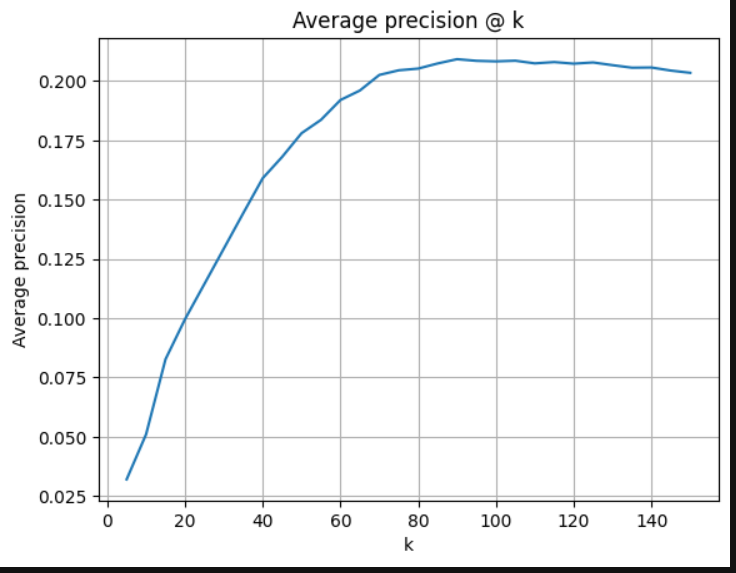
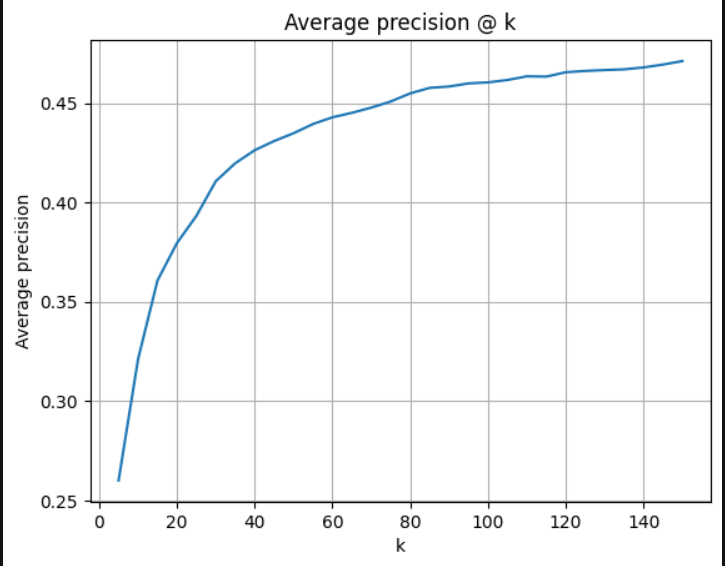
quantised evaluation

Changed region(s): [[0.0, 0.0, 1.0, 1.0]]

diff --git a/README.md b/README.md
@@ -3,11 +3,10 @@
 ## Playpick: A persistent multi user collaborative movie recommendation web app
 
 Persistent Recommendation System, MongoDB, Collaborative Filtering, Streamlit
-Live: https://pick-1-movie.streamlit.app 
+Live: https://pick-1-movie.streamlit.app
 
-## Metrics: Avg Precision@20=0.1                     Avg Precision@100=0.208
+## Metrics: Avg Precision@20=0.3795 Avg Precision@100=0.4604
 
-# ![PlayPick](<UI.png>)
+# ![PlayPick](UI.png)
 
-# ![Average precsion @ k](<eval.png>)
-
+# ![Average precsion @ k](eval.png)
